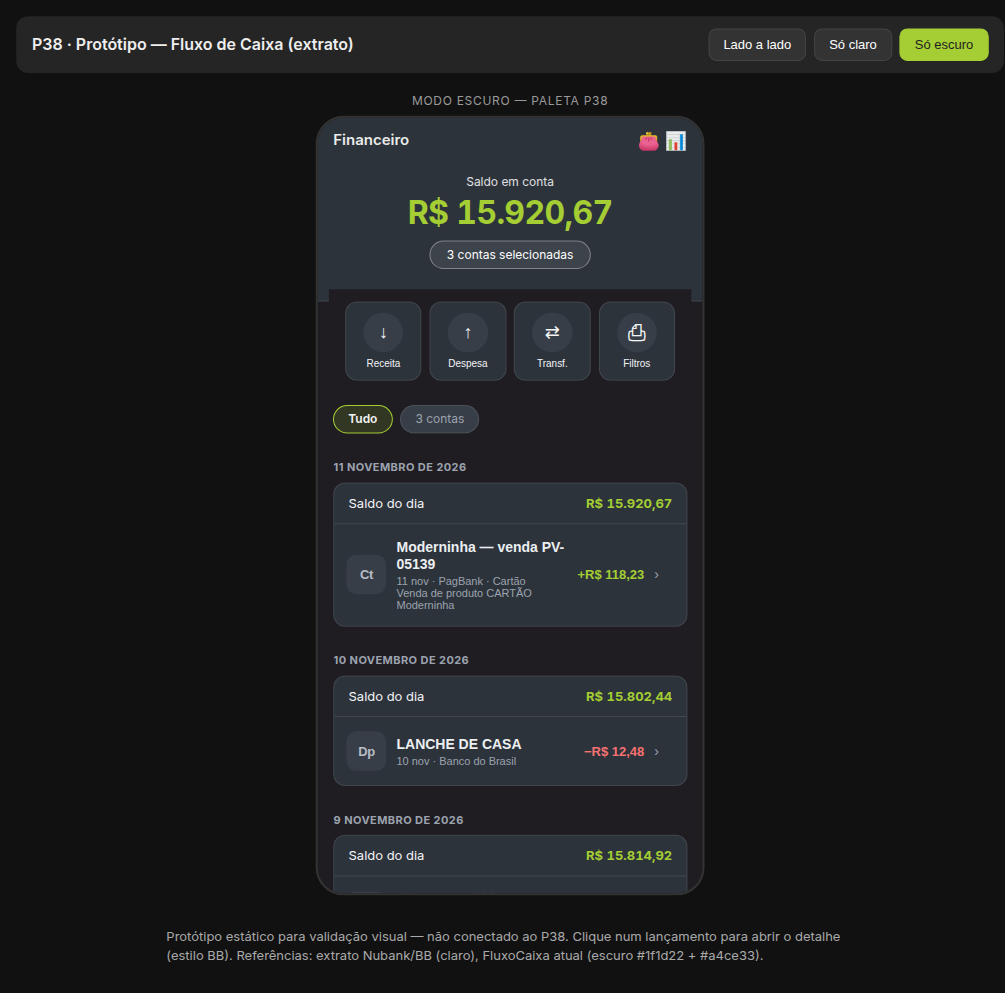
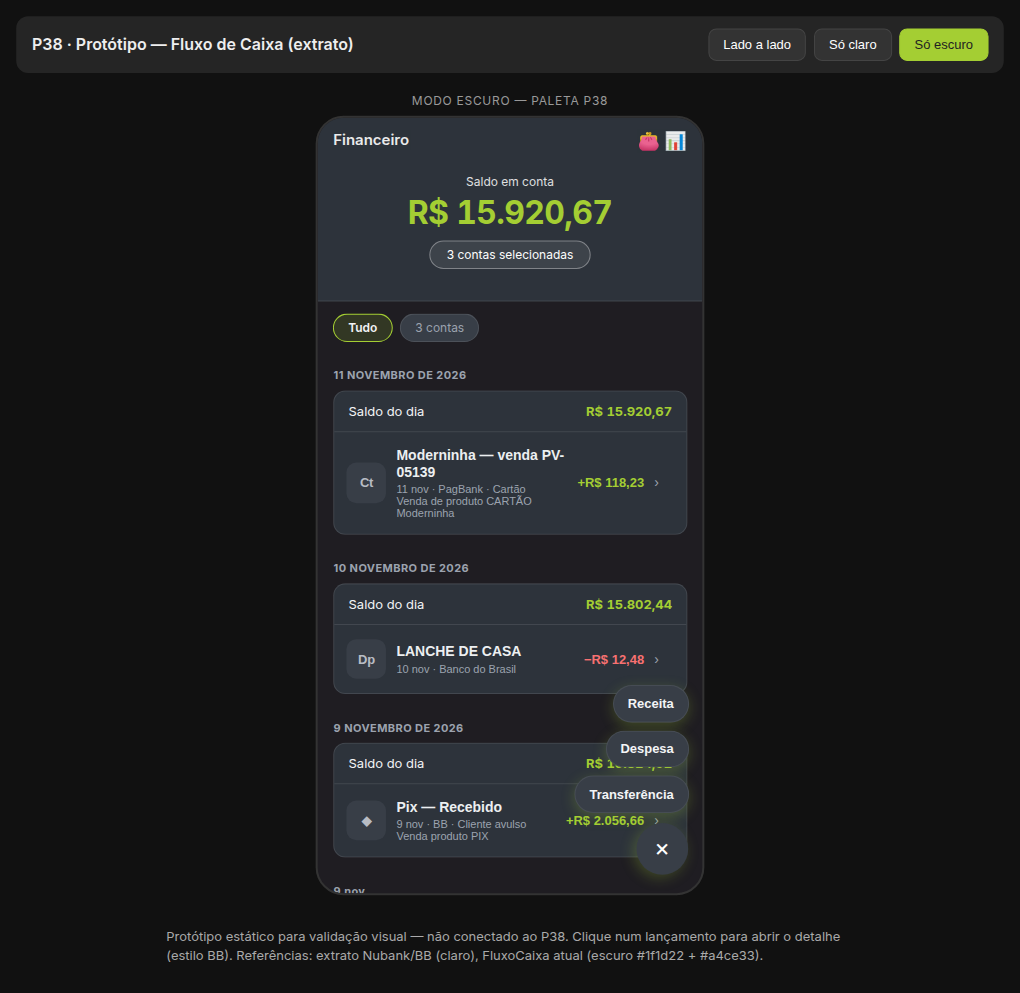
docs(prototypes): FAB no extrato e ícone calendário Lucide

diff --git a/docs/prototypes/fluxo-caixa-extrato-prototype.html b/docs/prototypes/fluxo-caixa-extrato-prototype.html
@@ -240,9 +240,98 @@
       overflow-x: hidden;
       -webkit-overflow-scrolling: touch;
     }
+    .chip-calendar {
+      display: inline-flex;
+      align-items: center;
+      justify-content: center;
+      padding: 6px 10px;
+      vertical-align: middle;
+    }
+    .chip-calendar svg {
+      width: 16px;
+      height: 16px;
+      stroke: currentColor;
+      fill: none;
+    }
+    [data-theme="light"] .chip-calendar { color: var(--income); }
+    [data-theme="dark"] .chip-calendar { color: var(--text-muted); }
+
+    .fab-stack {
+      position: absolute;
+      right: 14px;
+      bottom: 18px;
+      z-index: 40;
+      display: flex;
+      flex-direction: column;
+      align-items: flex-end;
+      gap: 10px;
+      pointer-events: none;
+    }
+    .fab-stack > * { pointer-events: auto; }
+    .fab-menu {
+      display: none;
+      flex-direction: column;
+      align-items: flex-end;
+      gap: 8px;
+    }
+    .fab-stack.open .fab-menu { display: flex; }
+    .fab-action {
+      border: none;
+      border-radius: 999px;
+      padding: 10px 14px;
+      font-size: 13px;
+      font-weight: 600;
+      box-shadow: var(--fab-shadow);
+      cursor: pointer;
+      white-space: nowrap;
+    }
+    [data-theme="light"] .fab-action {
+      background: var(--surface);
+      color: var(--text);
+      border: 1px solid var(--border);
+    }
+    [data-theme="dark"] .fab-action {
+      background: #383e47;
+      color: #f3f4f6;
+      border: 1px solid rgba(255,255,255,0.08);
+    }
+    .fab-main {
+      width: 52px;
+      height: 52px;
+      border-radius: 50%;
+      border: none;
+      display: flex;
+      align-items: center;
+      justify-content: center;
+      font-size: 28px;
+      line-height: 1;
+      cursor: pointer;
+      box-shadow: var(--fab-shadow);
+      transition: transform 0.2s ease, background 0.2s ease;
+    }
+    [data-theme="light"] .fab-main {
+      background: var(--income);
+      color: #fff;
+    }
+    [data-theme="light"] .fab-stack.open .fab-main {
+      transform: rotate(45deg);
+      background: #374151;
+    }
+    [data-theme="dark"] .fab-main {
+      background: #a4ce33;
+      color: #1f1d22;
+    }
+    [data-theme="dark"] .fab-stack.open .fab-main {
+      transform: rotate(45deg);
+      background: #383e47;
+      color: #fff;
+    }
+    .screen[data-screen="detail"] ~ .fab-stack,
+    .phone:not(:has(.screen[data-screen="list"].active)) .fab-stack { display: none; }
+
     [data-theme="light"] .hero-collapsible {
       overflow: hidden;
-      max-height: 520px;
+      max-height: 380px;
       opacity: 1;
       transition: max-height 0.38s ease, opacity 0.28s ease;
       will-change: max-height, opacity;
@@ -544,14 +633,6 @@
                     <span class="hero-pill">Detalhar saldo</span>
                   </div>
                 </div>
-                <div class="shortcuts-wrap">
-                  <div class="shortcuts">
-                    <button type="button" class="shortcut" title="Protótipo"><span class="shortcut-icon">◆</span>Receita</button>
-                    <button type="button" class="shortcut"><span class="shortcut-icon">↑</span>Despesa</button>
-                    <button type="button" class="shortcut"><span class="shortcut-icon">⇄</span>Transf.</button>
-                    <button type="button" class="shortcut"><span class="shortcut-icon">⎙</span>Exportar</button>
-                  </div>
-                </div>
                 <p class="hero-dica">Dica: Presença no Mercado — desbloqueie seu potencial com Open Finance ›</p>
               </div>
               <div class="filters filters--sticky">
@@ -567,10 +648,22 @@
                   <span class="chip">Out</span>
                   <span class="chip on">Nov</span>
                   <span class="chip">Futuros</span>
-                  <span class="chip" style="margin-left:4px" title="Calendário">📅</span>
+                  <button type="button" class="chip chip-calendar" title="Calendário" aria-label="Calendário">
+                    <svg xmlns="http://www.w3.org/2000/svg" viewBox="0 0 24 24" stroke-width="2" stroke-linecap="round" stroke-linejoin="round" aria-hidden="true">
+                      <path d="M8 2v4"/><path d="M16 2v4"/><rect width="18" height="18" x="3" y="4" rx="2"/><path d="M3 10h18"/>
+                    </svg>
+                  </button>
                 </div>
               </div>
               <div class="list-scroll" id="list-light"></div>
+            </div>
+            <div class="fab-stack" data-fab>
+              <div class="fab-menu" role="menu" aria-label="Novo lançamento">
+                <button type="button" class="fab-action" role="menuitem">Receita</button>
+                <button type="button" class="fab-action" role="menuitem">Despesa</button>
+                <button type="button" class="fab-action" role="menuitem">Transferência</button>
+              </div>
+              <button type="button" class="fab-main" aria-label="Novo lançamento" aria-expanded="false">+</button>
             </div>
           </div>
           <!-- detail -->
@@ -604,14 +697,6 @@
                 <span class="hero-pill">3 contas selecionadas</span>
               </div>
             </div>
-            <div class="shortcuts-wrap">
-              <div class="shortcuts">
-                <button type="button" class="shortcut"><span class="shortcut-icon">↓</span>Receita</button>
-                <button type="button" class="shortcut"><span class="shortcut-icon">↑</span>Despesa</button>
-                <button type="button" class="shortcut"><span class="shortcut-icon">⇄</span>Transf.</button>
-                <button type="button" class="shortcut"><span class="shortcut-icon">⎙</span>Filtros</button>
-              </div>
-            </div>
             <div class="filters">
               <div class="chips">
                 <span class="chip on">Tudo</span>
@@ -619,6 +704,14 @@
               </div>
             </div>
             <div class="list-scroll" id="list-dark"></div>
+            <div class="fab-stack" data-fab>
+              <div class="fab-menu" role="menu" aria-label="Novo lançamento">
+                <button type="button" class="fab-action" role="menuitem">Receita</button>
+                <button type="button" class="fab-action" role="menuitem">Despesa</button>
+                <button type="button" class="fab-action" role="menuitem">Transferência</button>
+              </div>
+              <button type="button" class="fab-main" aria-label="Novo lançamento" aria-expanded="false">+</button>
+            </div>
           </div>
           <div class="screen" data-screen="detail">
             <div class="detail-hero" style="background:#2d333b">
@@ -869,11 +962,20 @@
       });
     });
 
-    document.querySelectorAll('.chip').forEach((chip) => {
+    document.querySelectorAll('.chip:not(.chip-calendar)').forEach((chip) => {
       chip.addEventListener('click', () => {
         const parent = chip.parentElement;
         parent.querySelectorAll('.chip').forEach((c) => c.classList.remove('on'));
         chip.classList.add('on');
+      });
+    });
+
+    document.querySelectorAll('[data-fab]').forEach((stack) => {
+      const main = stack.querySelector('.fab-main');
+      if (!main) return;
+      main.addEventListener('click', () => {
+        const open = stack.classList.toggle('open');
+        main.setAttribute('aria-expanded', open ? 'true' : 'false');
       });
     });
   </script>
